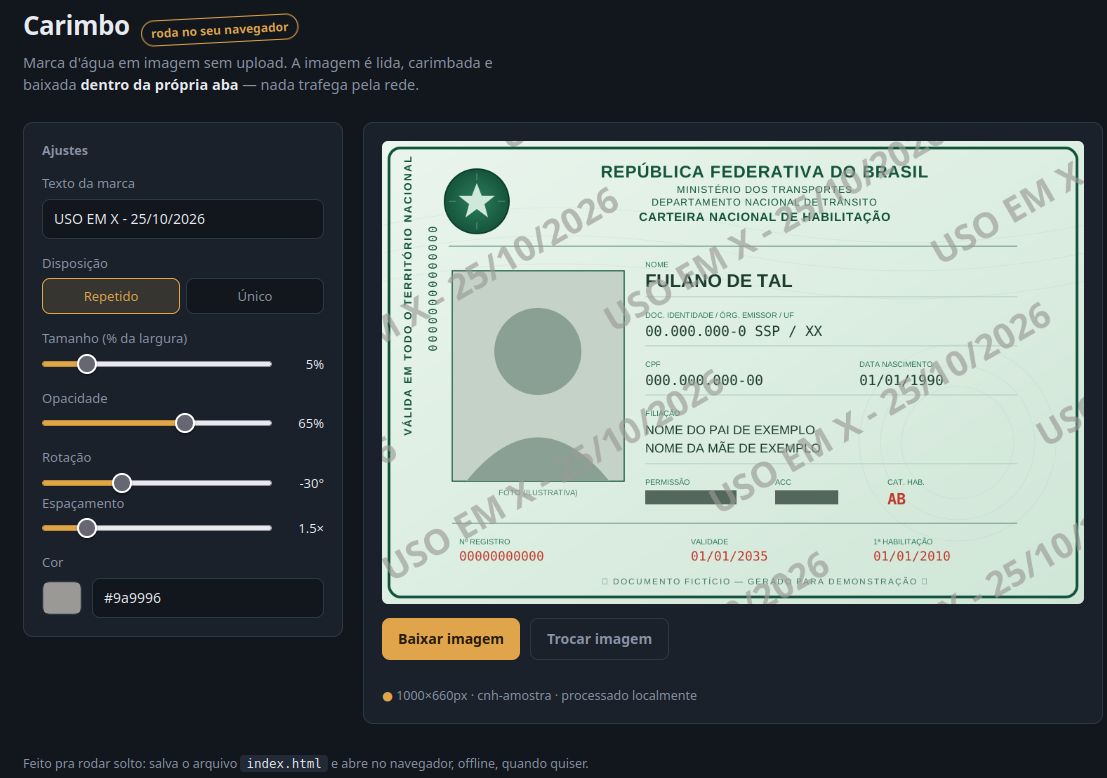
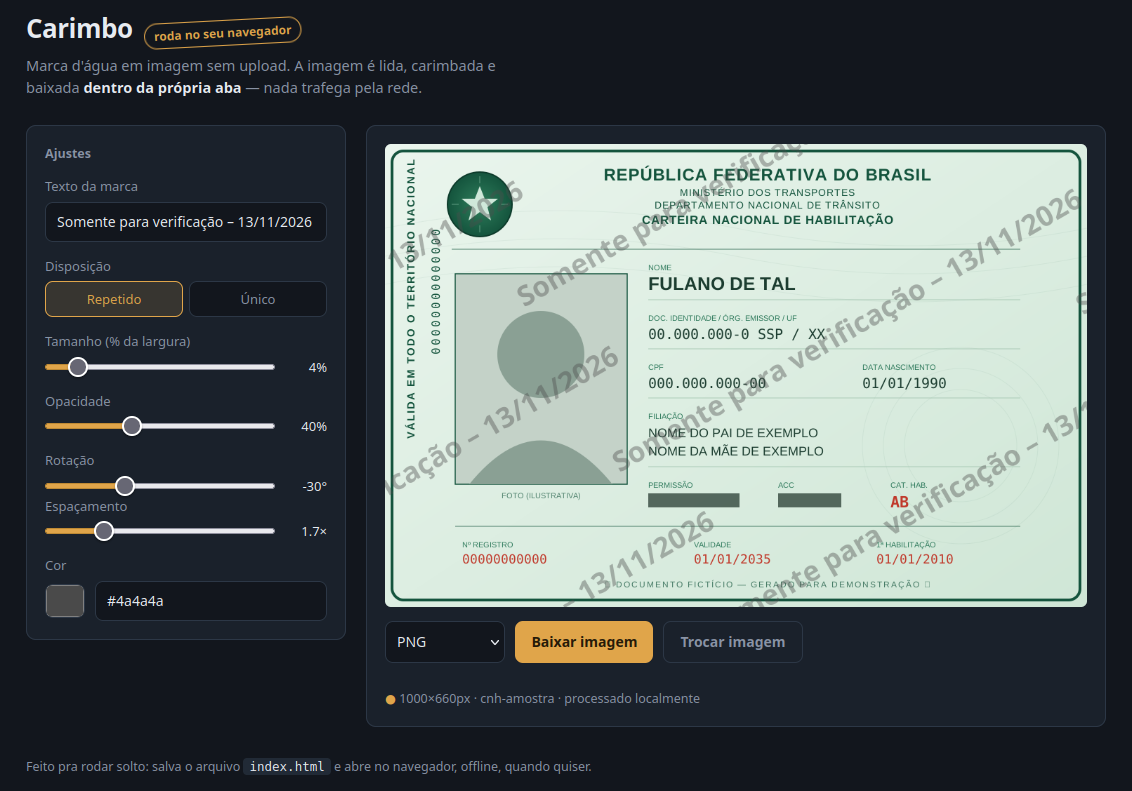
docs: update Screenshot and README for JPG output and new defaults

diff --git a/README.md b/README.md
@@ -1,5 +1,11 @@
 # Carimbo
 
+[![Licença](https://img.shields.io/github/license/santosediego/carimbo?style=for-the-badge)](https://github.com/santosediego/carimbo/blob/main/LICENSE)
+
+![HTML5](https://img.shields.io/badge/html5-%23E34F26.svg?style=for-the-badge&logo=html5&logoColor=white)
+![CSS3](https://img.shields.io/badge/css3-%231572B6.svg?style=for-the-badge&logo=css3&logoColor=white)
+![JavaScript](https://img.shields.io/badge/javascript-%23323330.svg?style=for-the-badge&logo=javascript&logoColor=%23F7DF1E)
+
 Marca d'água em imagem direto no navegador. Sem upload, sem servidor, sem conta.
 
 Você solta uma imagem, escreve o texto, ajusta e baixa. A imagem é lida, carimbada e salva **dentro da própria aba** — nada trafega pela rede. Dá pra tirar a internet da tomada e continuar funcionando.
@@ -21,6 +27,8 @@ Aqui o processamento é 100% local, via `<canvas>`. O arquivo nunca sai do seu d
 - Pré-visualização ao vivo
 - Exportação na **resolução original** da imagem, não na do preview
 - Formatos de entrada: PNG, JPG e WebP
+- Saída em **JPG** (menor, padrão para fotos) ou **PNG** (sem perda). Por padrão acompanha o formato da imagem original.
+- Já abre com um padrão pra documentos: "Somente para verificação" com a data do dia, em cinza discreto, repetido na diagonal. Na maioria dos casos é soltar a imagem e baixar.
 
 ## Como usar
 
@@ -34,6 +42,6 @@ Não tem build, não tem dependência, não tem instalação. É um arquivo só.
 
 HTML, CSS e JavaScript puro. Zero dependências, zero frameworks. A manipulação de imagem usa a Canvas API nativa do navegador.
 
-## Licença
+## Autor
 
-MIT. Use, modifique e distribua à vontade.
+[Diego Santos](https://www.linkedin.com/in/santosediego/ "Perfil Linkedin Diego Santos")
